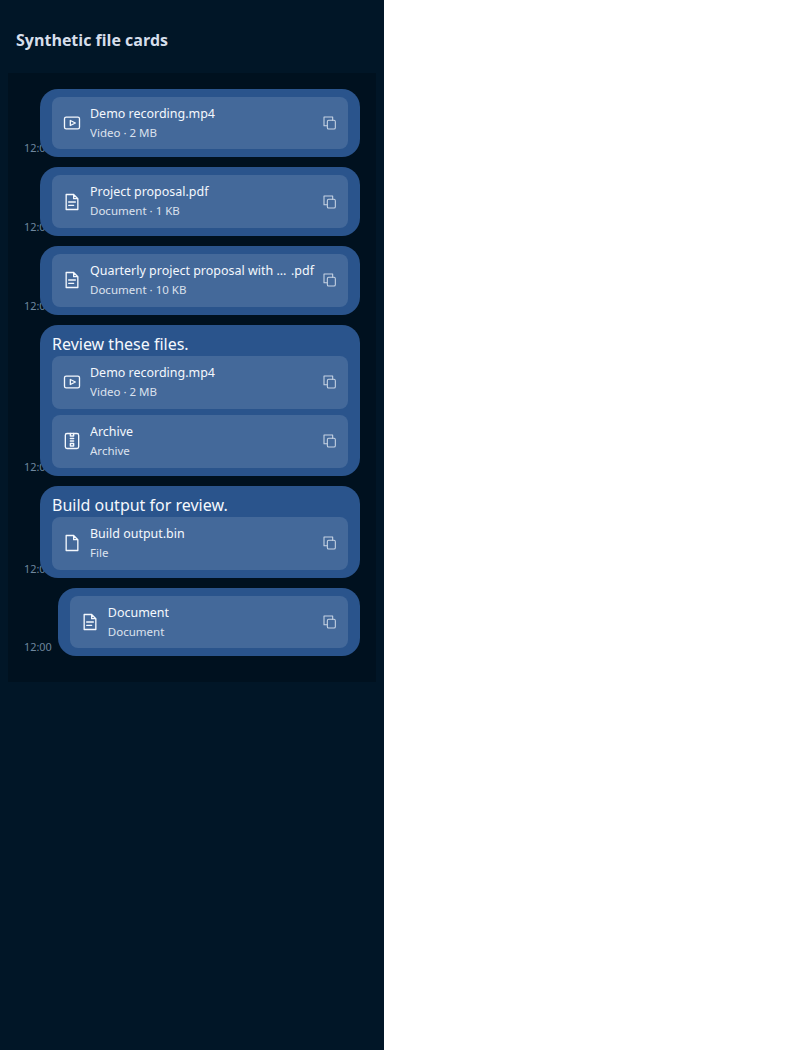
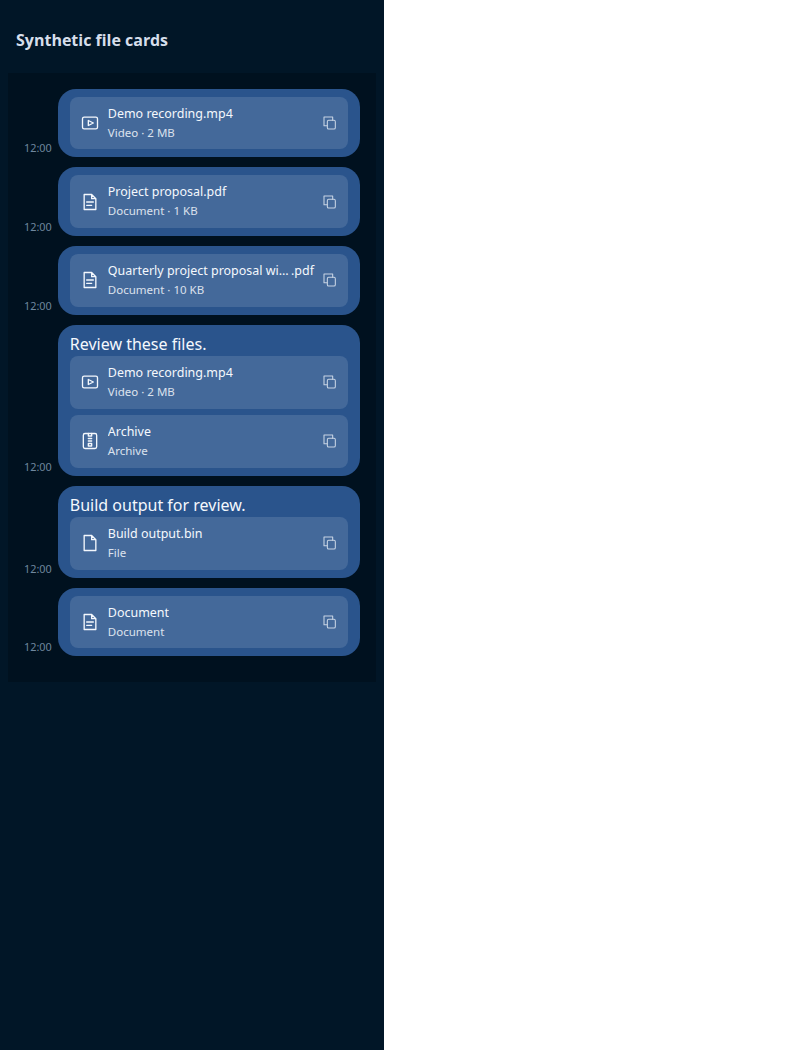
fix(ui): preserve timestamp space beside file cards
- Constrain file-card bubbles to the available parent width within the 320px cap.
- Assert timestamp separation at phone and desktop widths and refresh synthetic captures.

Changed region(s): [[0.0312, 0.061, 0.3438, 0.5486]]

diff --git a/packages/ui/test/fileCards.browser.test.ts b/packages/ui/test/fileCards.browser.test.ts
@@ -42,7 +42,7 @@ test("non-image file cards retain names, extensions and stacking at phone and de
             window.publish({width:innerWidth,overflow:document.documentElement.scrollWidth>innerWidth,
               literal:document.querySelector('#root').textContent.includes('[File')||document.querySelector('#root').textContent.includes('stored-'),
               cards:cards.map(card=>{const name=card.querySelector('.file-card-name'),stem=card.querySelector('.file-card-stem'),extension=card.querySelector('.file-card-extension');
-                return {name:name?.textContent,details:card.querySelector('.file-card-details')?.textContent,box:rect(card),bubble:rect(card.closest('.history-bubble')),
+                return {name:name?.textContent,details:card.querySelector('.file-card-details')?.textContent,box:rect(card),bubble:rect(card.closest('.history-bubble')),time:rect(card.closest('article').querySelector('time')),
                   icon:rect(card.querySelector('.file-card-kind')),radius:getComputedStyle(card).borderRadius,border:getComputedStyle(card).borderWidth,
                   stem:stem?{overflow:stem.scrollWidth>stem.clientWidth,ellipsis:getComputedStyle(stem).textOverflow,nowrap:getComputedStyle(stem).whiteSpace}:null,
                   extension:extension?{text:extension.textContent,box:rect(extension)}:null};}),
@@ -87,6 +87,7 @@ test("non-image file cards retain names, extensions and stacking at phone and de
         for (const card of result.cards) {
           assert.ok(card.box.w <= 320 && card.box.right <= width);
           assert.ok(card.bubble.w <= 320, "file-only bubbles stay at the requested maximum width");
+          assert.ok(card.time.right <= card.bubble.x, "timestamp stays left of the file-card bubble");
           assert.equal(card.icon.w, 20);
           assert.equal(card.radius, "8px");
           assert.equal(card.border, "0px");

diff --git a/packages/ui/src/styles.css b/packages/ui/src/styles.css
@@ -7762,4 +7762,4 @@ textarea {
 .file-card-copy { display:flex; color:inherit; opacity:.75; }
 .file-card-copy svg { width:16px; height:16px; }
 
-.history-bubble:has(.attachment-file-list):not(:has(.conversation-images,.attachment-chip)) { max-width:320px; }
+.history-bubble:has(.attachment-file-list):not(:has(.conversation-images,.attachment-chip)) { max-width:min(320px,100%); }
